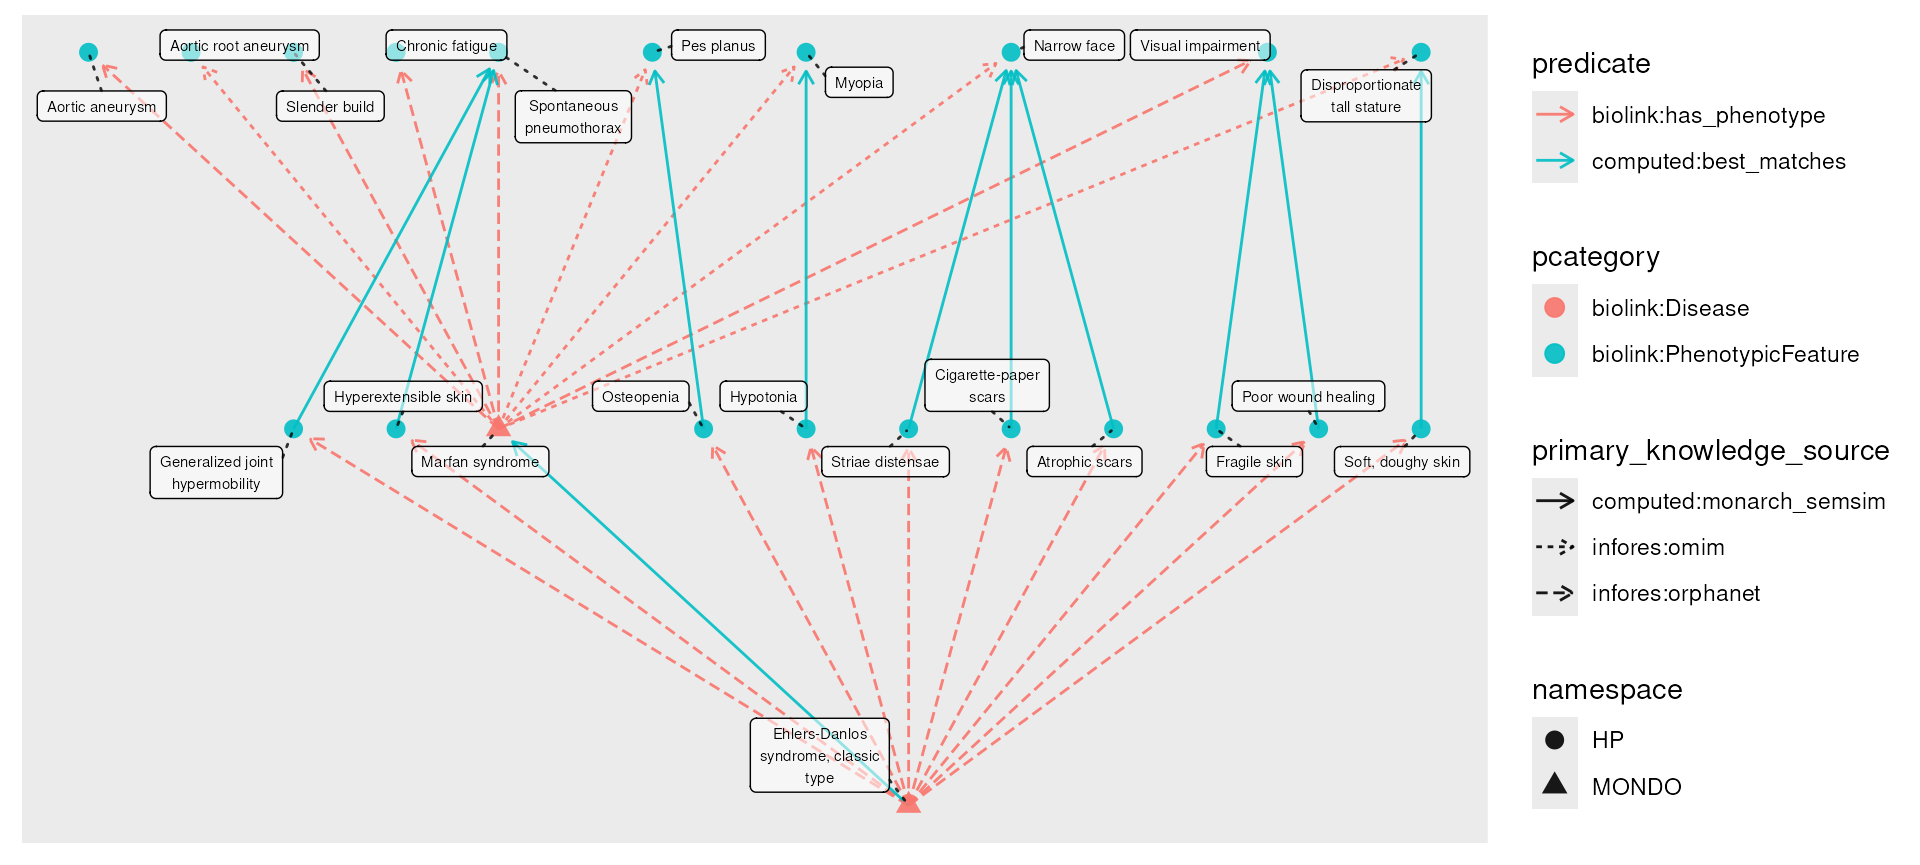
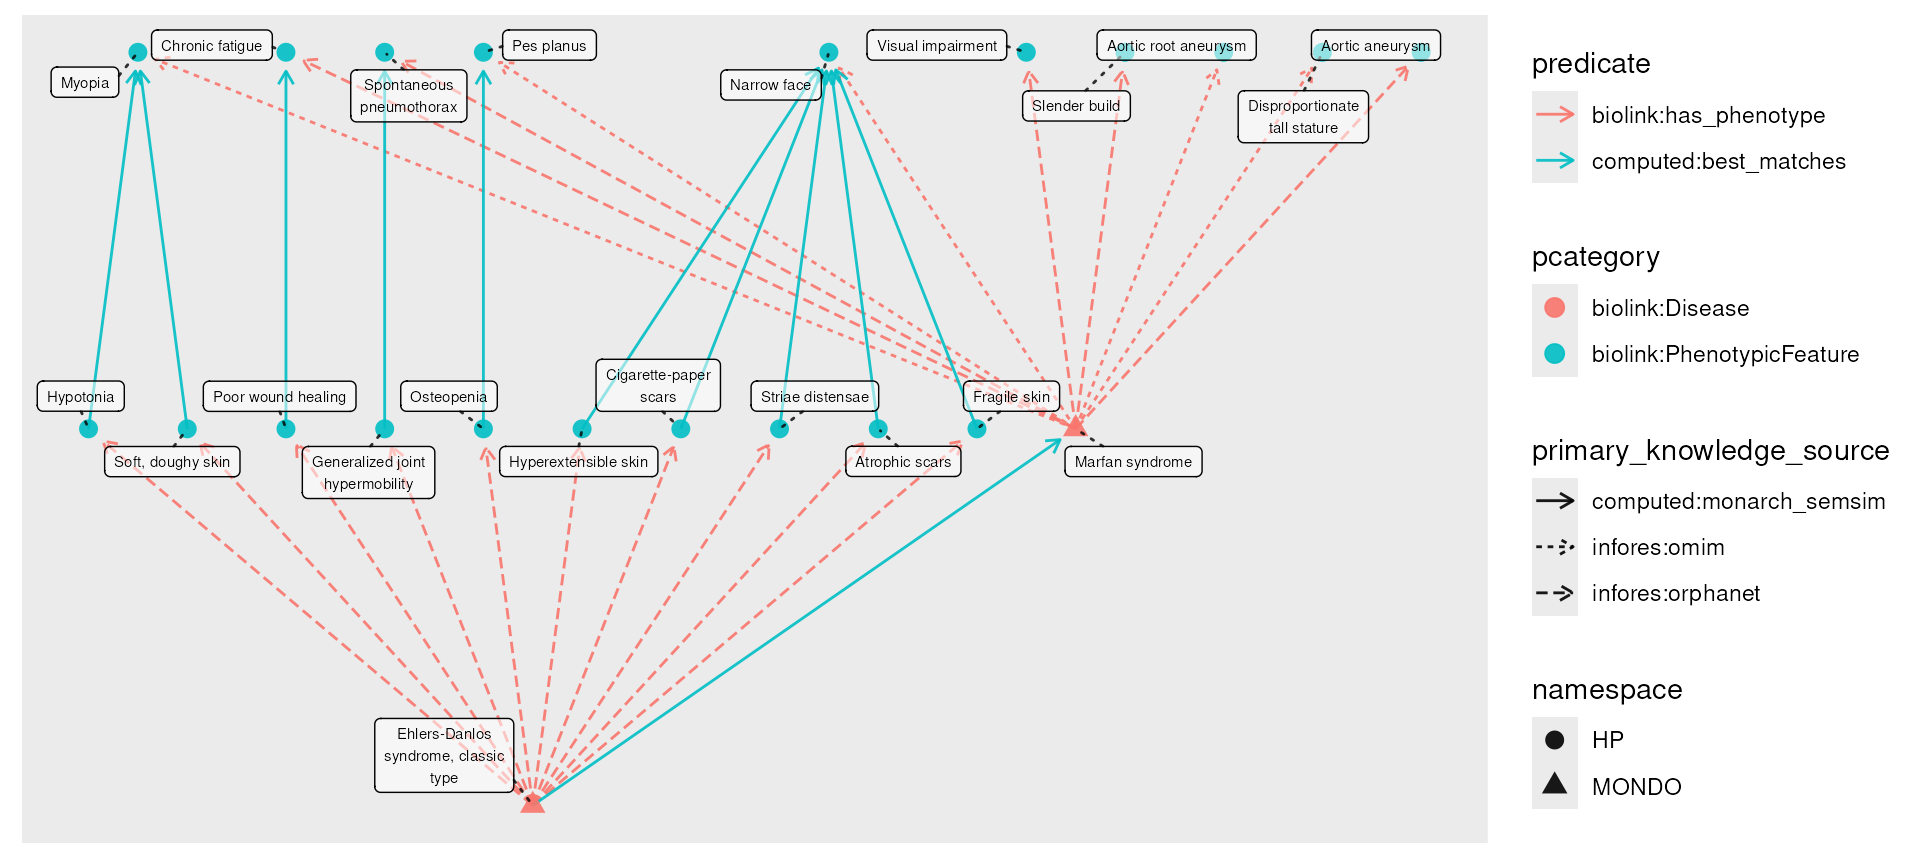
Deploying to gh-pages from @ monarch-initiative/monarchr@56e3914eced3bc228149f4418d50f090d1aa16f9 🚀

diff --git a/reference/monarch_semsim.html b/reference/monarch_semsim.html
@@ -160,11 +160,11 @@ the best matches from the second graph to the first graph.</p>
 <span class="r-msg co"><span class="r-pr">#&gt;</span> Joining with `by = join_by(id, pcategory, name, description, synonym, category,</span>
 <span class="r-msg co"><span class="r-pr">#&gt;</span> iri, xref, namespace, provided_by)`</span>
 <span class="r-in"><span><span class="fu"><a href="https://rdrr.io/r/base/print.html" class="external-link">print</a></span><span class="op">(</span><span class="va">sim</span><span class="op">)</span></span></span>
-<span class="r-out co"><span class="r-pr">#&gt;</span> <span style="color: #949494;"># A tbl_graph: 135 nodes and 107 edges</span></span>
+<span class="r-out co"><span class="r-pr">#&gt;</span> <span style="color: #949494;"># A tbl_graph: 134 nodes and 107 edges</span></span>
 <span class="r-out co"><span class="r-pr">#&gt;</span> <span style="color: #949494;">#</span></span>
-<span class="r-out co"><span class="r-pr">#&gt;</span> <span style="color: #949494;"># A directed multigraph with 40 components</span></span>
+<span class="r-out co"><span class="r-pr">#&gt;</span> <span style="color: #949494;"># A directed multigraph with 39 components</span></span>
 <span class="r-out co"><span class="r-pr">#&gt;</span> <span style="color: #949494;">#</span></span>
-<span class="r-out co"><span class="r-pr">#&gt;</span> <span style="color: #949494;"># Node Data: 135 × 10 (active)</span></span>
+<span class="r-out co"><span class="r-pr">#&gt;</span> <span style="color: #949494;"># Node Data: 134 × 10 (active)</span></span>
 <span class="r-out co"><span class="r-pr">#&gt;</span>    id         pcategory name  description synonym category iri   xref  namespace</span>
 <span class="r-out co"><span class="r-pr">#&gt;</span>    <span style="color: #949494; font-style: italic;">&lt;chr&gt;</span>      <span style="color: #949494; font-style: italic;">&lt;chr&gt;</span>     <span style="color: #949494; font-style: italic;">&lt;chr&gt;</span> <span style="color: #949494; font-style: italic;">&lt;chr&gt;</span>       <span style="color: #949494; font-style: italic;">&lt;list&gt;</span>  <span style="color: #949494; font-style: italic;">&lt;list&gt;</span>   <span style="color: #949494; font-style: italic;">&lt;chr&gt;</span> <span style="color: #949494; font-style: italic;">&lt;lis&gt;</span> <span style="color: #949494; font-style: italic;">&lt;chr&gt;</span>    </span>
 <span class="r-out co"><span class="r-pr">#&gt;</span> <span style="color: #BCBCBC;"> 1</span> MONDO:000… biolink:… Marf… A disorder… <span style="color: #949494;">&lt;chr&gt;</span>   <span style="color: #949494;">&lt;chr&gt;</span>    http… <span style="color: #949494;">&lt;chr&gt;</span> MONDO    </span>
@@ -177,15 +177,15 @@ the best matches from the second graph to the first graph.</p>
 <span class="r-out co"><span class="r-pr">#&gt;</span> <span style="color: #BCBCBC;"> 8</span> HP:0012432 biolink:… Chro… Subjective… <span style="color: #949494;">&lt;chr&gt;</span>   <span style="color: #949494;">&lt;chr&gt;</span>    http… <span style="color: #949494;">&lt;chr&gt;</span> HP       </span>
 <span class="r-out co"><span class="r-pr">#&gt;</span> <span style="color: #BCBCBC;"> 9</span> HP:0000275 biolink:… Narr… Bizygomati… <span style="color: #949494;">&lt;chr&gt;</span>   <span style="color: #949494;">&lt;chr&gt;</span>    http… <span style="color: #949494;">&lt;chr&gt;</span> HP       </span>
 <span class="r-out co"><span class="r-pr">#&gt;</span> <span style="color: #BCBCBC;">10</span> HP:0000505 biolink:… Visu… Visual imp… <span style="color: #949494;">&lt;chr&gt;</span>   <span style="color: #949494;">&lt;chr&gt;</span>    http… <span style="color: #949494;">&lt;chr&gt;</span> HP       </span>
-<span class="r-out co"><span class="r-pr">#&gt;</span> <span style="color: #949494;"># ℹ 125 more rows</span></span>
+<span class="r-out co"><span class="r-pr">#&gt;</span> <span style="color: #949494;"># ℹ 124 more rows</span></span>
 <span class="r-out co"><span class="r-pr">#&gt;</span> <span style="color: #949494;"># ℹ 1 more variable: provided_by &lt;list&gt;</span></span>
 <span class="r-out co"><span class="r-pr">#&gt;</span> <span style="color: #949494;">#</span></span>
 <span class="r-out co"><span class="r-pr">#&gt;</span> <span style="color: #949494;"># Edge Data: 107 × 9</span></span>
 <span class="r-out co"><span class="r-pr">#&gt;</span>    from    to subject    predicate             object     primary_knowledge_so…¹</span>
 <span class="r-out co"><span class="r-pr">#&gt;</span>   <span style="color: #949494; font-style: italic;">&lt;int&gt;</span> <span style="color: #949494; font-style: italic;">&lt;int&gt;</span> <span style="color: #949494; font-style: italic;">&lt;chr&gt;</span>      <span style="color: #949494; font-style: italic;">&lt;chr&gt;</span>                 <span style="color: #949494; font-style: italic;">&lt;chr&gt;</span>      <span style="color: #949494; font-style: italic;">&lt;chr&gt;</span>                 </span>
-<span class="r-out co"><span class="r-pr">#&gt;</span> <span style="color: #BCBCBC;">1</span>   107    60 HP:0000006 computed:best_matches HP:0005294 computed:monarch_sems…</span>
+<span class="r-out co"><span class="r-pr">#&gt;</span> <span style="color: #BCBCBC;">1</span>   107   113 HP:0000006 computed:best_matches HP:0003394 computed:monarch_sems…</span>
 <span class="r-out co"><span class="r-pr">#&gt;</span> <span style="color: #BCBCBC;">2</span>    33    33 HP:0000023 computed:best_matches HP:0000023 computed:monarch_sems…</span>
-<span class="r-out co"><span class="r-pr">#&gt;</span> <span style="color: #BCBCBC;">3</span>    86   115 HP:0000098 computed:best_matches HP:0000286 computed:monarch_sems…</span>
+<span class="r-out co"><span class="r-pr">#&gt;</span> <span style="color: #BCBCBC;">3</span>    86   116 HP:0000098 computed:best_matches HP:0000286 computed:monarch_sems…</span>
 <span class="r-out co"><span class="r-pr">#&gt;</span> <span style="color: #949494;"># ℹ 104 more rows</span></span>
 <span class="r-out co"><span class="r-pr">#&gt;</span> <span style="color: #949494;"># ℹ abbreviated name: ¹primary_knowledge_source</span></span>
 <span class="r-out co"><span class="r-pr">#&gt;</span> <span style="color: #949494;"># ℹ 3 more variables: monarch_semsim_metric &lt;chr&gt;, monarch_semsim_score &lt;dbl&gt;,</span></span>
@@ -238,7 +238,7 @@ the best matches from the second graph to the first graph.</p>
 <span class="r-in"><span><span class="fu"><a href="https://rdrr.io/r/base/print.html" class="external-link">print</a></span><span class="op">(</span><span class="va">sim</span><span class="op">)</span></span></span>
 <span class="r-out co"><span class="r-pr">#&gt;</span> <span style="color: #949494;"># A tbl_graph: 162 nodes and 174 edges</span></span>
 <span class="r-out co"><span class="r-pr">#&gt;</span> <span style="color: #949494;">#</span></span>
-<span class="r-out co"><span class="r-pr">#&gt;</span> <span style="color: #949494;"># A directed multigraph with 29 components</span></span>
+<span class="r-out co"><span class="r-pr">#&gt;</span> <span style="color: #949494;"># A directed multigraph with 27 components</span></span>
 <span class="r-out co"><span class="r-pr">#&gt;</span> <span style="color: #949494;">#</span></span>
 <span class="r-out co"><span class="r-pr">#&gt;</span> <span style="color: #949494;"># Node Data: 162 × 10 (active)</span></span>
 <span class="r-out co"><span class="r-pr">#&gt;</span>    id         pcategory name  description synonym category iri   xref  namespace</span>
@@ -259,7 +259,7 @@ the best matches from the second graph to the first graph.</p>
 <span class="r-out co"><span class="r-pr">#&gt;</span> <span style="color: #949494;"># Edge Data: 174 × 9</span></span>
 <span class="r-out co"><span class="r-pr">#&gt;</span>    from    to subject    predicate             object     primary_knowledge_so…¹</span>
 <span class="r-out co"><span class="r-pr">#&gt;</span>   <span style="color: #949494; font-style: italic;">&lt;int&gt;</span> <span style="color: #949494; font-style: italic;">&lt;int&gt;</span> <span style="color: #949494; font-style: italic;">&lt;chr&gt;</span>      <span style="color: #949494; font-style: italic;">&lt;chr&gt;</span>                 <span style="color: #949494; font-style: italic;">&lt;chr&gt;</span>      <span style="color: #949494; font-style: italic;">&lt;chr&gt;</span>                 </span>
-<span class="r-out co"><span class="r-pr">#&gt;</span> <span style="color: #BCBCBC;">1</span>   107   134 HP:0000006 computed:best_matches HP:0001622 computed:monarch_sems…</span>
+<span class="r-out co"><span class="r-pr">#&gt;</span> <span style="color: #BCBCBC;">1</span>   107   158 HP:0000006 computed:best_matches HP:0030009 computed:monarch_sems…</span>
 <span class="r-out co"><span class="r-pr">#&gt;</span> <span style="color: #BCBCBC;">2</span>    33    33 HP:0000023 computed:best_matches HP:0000023 computed:monarch_sems…</span>
 <span class="r-out co"><span class="r-pr">#&gt;</span> <span style="color: #BCBCBC;">3</span>    86   126 HP:0000098 computed:best_matches HP:0000286 computed:monarch_sems…</span>
 <span class="r-out co"><span class="r-pr">#&gt;</span> <span style="color: #949494;"># ℹ 171 more rows</span></span>

diff --git a/articles/monarchr.html b/articles/monarchr.html
@@ -5908,10 +5908,10 @@ containing only computed <code>"computed:best_matches"</code> edges:</p>
 <p><img src="monarchr_files/figure-html/unnamed-chunk-14-1.png" width="960"></p>
 <div class="sourceCode" id="cb20"><pre class="downlit sourceCode r">
 <code class="sourceCode R"><span><span class="va">sim</span></span></code></pre></div>
-<pre>Graph with 18 nodes and 11 edges. Expand sections below for details.</pre>
+<pre>Graph with 17 nodes and 11 edges. Expand sections below for details.</pre>
 <details><summary><b>Node Data</b>
 </summary><p>
-Showing 18 of 18 nodes:
+Showing 17 of 17 nodes:
 </p>
 <div style="font-size: 0.8em; max-height: 400px;overflow-y: auto;border-left: 1px solid #ddd;border-right:  1px solid #ddd;border-bottom: 1px solid #ddd;">
 <table class="table table table-striped table-hover table-condensed" style="margin-left: auto; margin-right: auto;">
@@ -6417,44 +6417,6 @@ c(“DOID:14323”, “GARD:16535”, “ICD9:759.82”, “MEDGEN:44287”,
 </tr>
 <tr>
 <td style="text-align:left;">
-“HP:0001519”
-</td>
-<td style="text-align:left;">
-“biolink:PhenotypicFeature”
-</td>
-<td style="text-align:left;">
-“Disproportionate tall stature”
-</td>
-<td style="text-align:left;min-width: 300px; ">
-“A tall and slim body build with increased arm span to height ratio
-(&gt;1.05) and a reduced upper-to-lower segment ratio (&lt;0.85), i.e.,
-unusually long arms and legs. The extremities as well as the hands and
-feet are unusually slim.”
-</td>
-<td style="text-align:left;min-width: 300px; ">
-c(“Dolichostenomelia”, “Marfanoid body habitus”, “Marfanoid habitus”,
-“Reduced upper-lower segment ratio”)
-</td>
-<td style="text-align:left;">
-c(“biolink:BiologicalEntity”, “biolink:DiseaseOrPhenotypicFeature”,
-“biolink:Entity”, “biolink:NamedThing”, “biolink:PhenotypicFeature”,
-“biolink:ThingWithTaxon”)
-</td>
-<td style="text-align:left;">
-“<a href="http://purl.obolibrary.org/obo/HP_0001519" class="external-link uri">http://purl.obolibrary.org/obo/HP_0001519</a>”
-</td>
-<td style="text-align:left;">
-c(“SNOMEDCT_US:62250003”, “UMLS:C0003706”, “UMLS:C1836996”)
-</td>
-<td style="text-align:left;">
-“HP”
-</td>
-<td style="text-align:left;">
-“phenio_nodes”
-</td>
-</tr>
-<tr>
-<td style="text-align:left;">
 “HP:0001763”
 </td>
 <td style="text-align:left;">
@@ -6529,6 +6491,41 @@ c(“SNOMEDCT_US:80423007”, “UMLS:C0149781”)
 </tr>
 <tr>
 <td style="text-align:left;">
+“HP:0012432”
+</td>
+<td style="text-align:left;">
+“biolink:PhenotypicFeature”
+</td>
+<td style="text-align:left;">
+“Chronic fatigue”
+</td>
+<td style="text-align:left;min-width: 300px; ">
+“Subjective feeling of tiredness characterized by a lack of energy and
+motivation that persists for six months or longer.”
+</td>
+<td style="text-align:left;min-width: 300px; ">
+c(“Chronic extreme exhaustion”, “Chronic fatigue”)
+</td>
+<td style="text-align:left;">
+c(“biolink:BiologicalEntity”, “biolink:DiseaseOrPhenotypicFeature”,
+“biolink:Entity”, “biolink:NamedThing”, “biolink:PhenotypicFeature”,
+“biolink:ThingWithTaxon”)
+</td>
+<td style="text-align:left;">
+“<a href="http://purl.obolibrary.org/obo/HP_0012432" class="external-link uri">http://purl.obolibrary.org/obo/HP_0012432</a>”
+</td>
+<td style="text-align:left;">
+“UMLS:C0518656”
+</td>
+<td style="text-align:left;">
+“HP”
+</td>
+<td style="text-align:left;">
+“phenio_nodes”
+</td>
+</tr>
+<tr>
+<td style="text-align:left;">
 “HP:0000275”
 </td>
 <td style="text-align:left;">
@@ -6560,47 +6557,6 @@ c(“biolink:BiologicalEntity”, “biolink:DiseaseOrPhenotypicFeature”,
 </td>
 <td style="text-align:left;">
 c(“UMLS:C1837463”, “UMLS:C1849121”)
-</td>
-<td style="text-align:left;">
-“HP”
-</td>
-<td style="text-align:left;">
-“phenio_nodes”
-</td>
-</tr>
-<tr>
-<td style="text-align:left;">
-“HP:0000505”
-</td>
-<td style="text-align:left;">
-“biolink:PhenotypicFeature”
-</td>
-<td style="text-align:left;">
-“Visual impairment”
-</td>
-<td style="text-align:left;min-width: 300px; ">
-“Visual impairment (or vision impairment) is vision loss (of a person)
-to such a degree as to qualify as an additional support need through a
-significant limitation of visual capability resulting from either
-disease, trauma, or congenital or degenerative conditions that cannot be
-corrected by conventional means, such as refractive correction,
-medication, or surgery.”
-</td>
-<td style="text-align:left;min-width: 300px; ">
-c(“Impaired vision”, “Loss of eyesight”, “Poor vision”, “Visual
-impairment”)
-</td>
-<td style="text-align:left;">
-c(“biolink:BiologicalEntity”, “biolink:DiseaseOrPhenotypicFeature”,
-“biolink:Entity”, “biolink:NamedThing”, “biolink:PhenotypicFeature”,
-“biolink:ThingWithTaxon”)
-</td>
-<td style="text-align:left;">
-“<a href="http://purl.obolibrary.org/obo/HP_0000505" class="external-link uri">http://purl.obolibrary.org/obo/HP_0000505</a>”
-</td>
-<td style="text-align:left;">
-c(“SNOMEDCT_US:246635007”, “SNOMEDCT_US:397540003”,
-“SNOMEDCT_US:7973008”, “UMLS:C0042798”, “UMLS:C3665347”)
 </td>
 <td style="text-align:left;">
 “HP”
@@ -6689,7 +6645,7 @@ monarch_semsim_ancestor_id
 9
 </td>
 <td style="text-align:left;">
-14
+13
 </td>
 <td style="text-align:left;">
 “HP:0000938”
@@ -6718,7 +6674,7 @@ monarch_semsim_ancestor_id
 2
 </td>
 <td style="text-align:left;">
-15
+16
 </td>
 <td style="text-align:left;">
 “HP:0000974”
@@ -6727,7 +6683,7 @@ monarch_semsim_ancestor_id
 “computed:best_matches”
 </td>
 <td style="text-align:left;">
-“HP:0002108”
+“HP:0000275”
 </td>
 <td style="text-align:left;">
 “computed:monarch_semsim”
@@ -6747,7 +6703,7 @@ monarch_semsim_ancestor_id
 3
 </td>
 <td style="text-align:left;">
-13
+17
 </td>
 <td style="text-align:left;">
 “HP:0001027”
@@ -6756,7 +6712,7 @@ monarch_semsim_ancestor_id
 “computed:best_matches”
 </td>
 <td style="text-align:left;">
-“HP:0001519”
+“HP:0000545”
 </td>
 <td style="text-align:left;">
 “computed:monarch_semsim”
@@ -6776,7 +6732,7 @@ monarch_semsim_ancestor_id
 4
 </td>
 <td style="text-align:left;">
-17
+16
 </td>
 <td style="text-align:left;">
 “HP:0001030”
@@ -6785,7 +6741,7 @@ monarch_semsim_ancestor_id
 “computed:best_matches”
 </td>
 <td style="text-align:left;">
-“HP:0000505”
+“HP:0000275”
 </td>
 <td style="text-align:left;">
 “computed:monarch_semsim”
@@ -6805,7 +6761,7 @@ monarch_semsim_ancestor_id
 10
 </td>
 <td style="text-align:left;">
-17
+15
 </td>
 <td style="text-align:left;">
 “HP:0001058”
@@ -6814,7 +6770,7 @@ monarch_semsim_ancestor_id
 “computed:best_matches”
 </td>
 <td style="text-align:left;">
-“HP:0000505”
+“HP:0012432”
 </td>
 <td style="text-align:left;">
 “computed:monarch_semsim”
@@ -6921,7 +6877,7 @@ monarch_semsim_ancestor_id
 11
 </td>
 <td style="text-align:left;">
-18
+17
 </td>
 <td style="text-align:left;">
 “HP:0001252”
@@ -6950,7 +6906,7 @@ monarch_semsim_ancestor_id
 8
 </td>
 <td style="text-align:left;">
-15
+14
 </td>
 <td style="text-align:left;">
 “HP:0002761”
@@ -9782,7 +9738,7 @@ NA
 2
 </td>
 <td style="text-align:left;">
-16
+20
 </td>
 <td style="text-align:left;">
 “HP:0000974”
@@ -9791,7 +9747,7 @@ NA
 “computed:best_matches”
 </td>
 <td style="text-align:left;">
-“HP:0002108”
+“HP:0000275”
 </td>
 <td style="text-align:left;">
 “computed:monarch_semsim”
@@ -9862,7 +9818,7 @@ NA
 3
 </td>
 <td style="text-align:left;">
-13
+22
 </td>
 <td style="text-align:left;">
 “HP:0001027”
@@ -9871,7 +9827,7 @@ NA
 “computed:best_matches”
 </td>
 <td style="text-align:left;">
-“HP:0001519”
+“HP:0000545”
 </td>
 <td style="text-align:left;">
 “computed:monarch_semsim”
@@ -9942,7 +9898,7 @@ NA
 4
 </td>
 <td style="text-align:left;">
-21
+20
 </td>
 <td style="text-align:left;">
 “HP:0001030”
@@ -9951,7 +9907,7 @@ NA
 “computed:best_matches”
 </td>
 <td style="text-align:left;">
-“HP:0000505”
+“HP:0000275”
 </td>
 <td style="text-align:left;">
 “computed:monarch_semsim”
@@ -10022,7 +9978,7 @@ NA
 10
 </td>
 <td style="text-align:left;">
-21
+19
 </td>
 <td style="text-align:left;">
 “HP:0001058”
@@ -10031,7 +9987,7 @@ NA
 “computed:best_matches”
 </td>
 <td style="text-align:left;">
-“HP:0000505”
+“HP:0012432”
 </td>
 <td style="text-align:left;">
 “computed:monarch_semsim”

diff --git a/index.html b/index.html
@@ -105,7 +105,7 @@ Authors: <i>Shawn O’Neil, Brian Schilder</i>
 <div class="section level3">
 <h3 id="r-package-for-easy-access-manipulation-and-analysis-of-monarch-kg-data-resources">R package for easy access, manipulation, and analysis of Monarch KG data Resources.<a class="anchor" aria-label="anchor" href="#r-package-for-easy-access-manipulation-and-analysis-of-monarch-kg-data-resources"></a>
 </h3>
-<p>MonarchR provides a tidy interface to data hosted at <a href="https://monarchinitiative.org" class="external-link uri">https://monarchinitiative.org</a>.</p>
+<p><code>monarchr</code> provides a tidy interface to data hosted at <a href="https://monarchinitiative.org" class="external-link uri">https://monarchinitiative.org</a>, and other knowledge graphs in KGX format (e.g. those at <a href="https://kghub.org/" class="external-link">KGHub</a>).</p>
 <ul>
 <li><a href="https://monarch-initiative.github.io/monarchr/" class="external-link">Website</a></li>
 <li><a href="https://monarch-initiative.github.io/monarchr/articles/monarchr.html" class="external-link">Get started</a></li>

diff --git a/reference/monarch_edge_weight_encodings.html b/reference/monarch_edge_weight_encodings.html
@@ -190,8 +190,8 @@ override them with custom encoding logic if needed.</p>
 <span class="r-out co"><span class="r-pr">#&gt;</span> {</span>
 <span class="r-out co"><span class="r-pr">#&gt;</span>     length(unique(x))</span>
 <span class="r-out co"><span class="r-pr">#&gt;</span> }</span>
-<span class="r-out co"><span class="r-pr">#&gt;</span> &lt;bytecode: 0x5574c0ced398&gt;</span>
-<span class="r-out co"><span class="r-pr">#&gt;</span> &lt;environment: 0x5574c3f9c818&gt;</span>
+<span class="r-out co"><span class="r-pr">#&gt;</span> &lt;bytecode: 0x555e3d448bf0&gt;</span>
+<span class="r-out co"><span class="r-pr">#&gt;</span> &lt;environment: 0x555e34fafb38&gt;</span>
 <span class="r-out co"><span class="r-pr">#&gt;</span> </span>
 <span class="r-in"><span></span></span>
 <span class="r-in"><span><span class="co"># Override the encoding to assign more weight to logical entailments</span></span></span>
